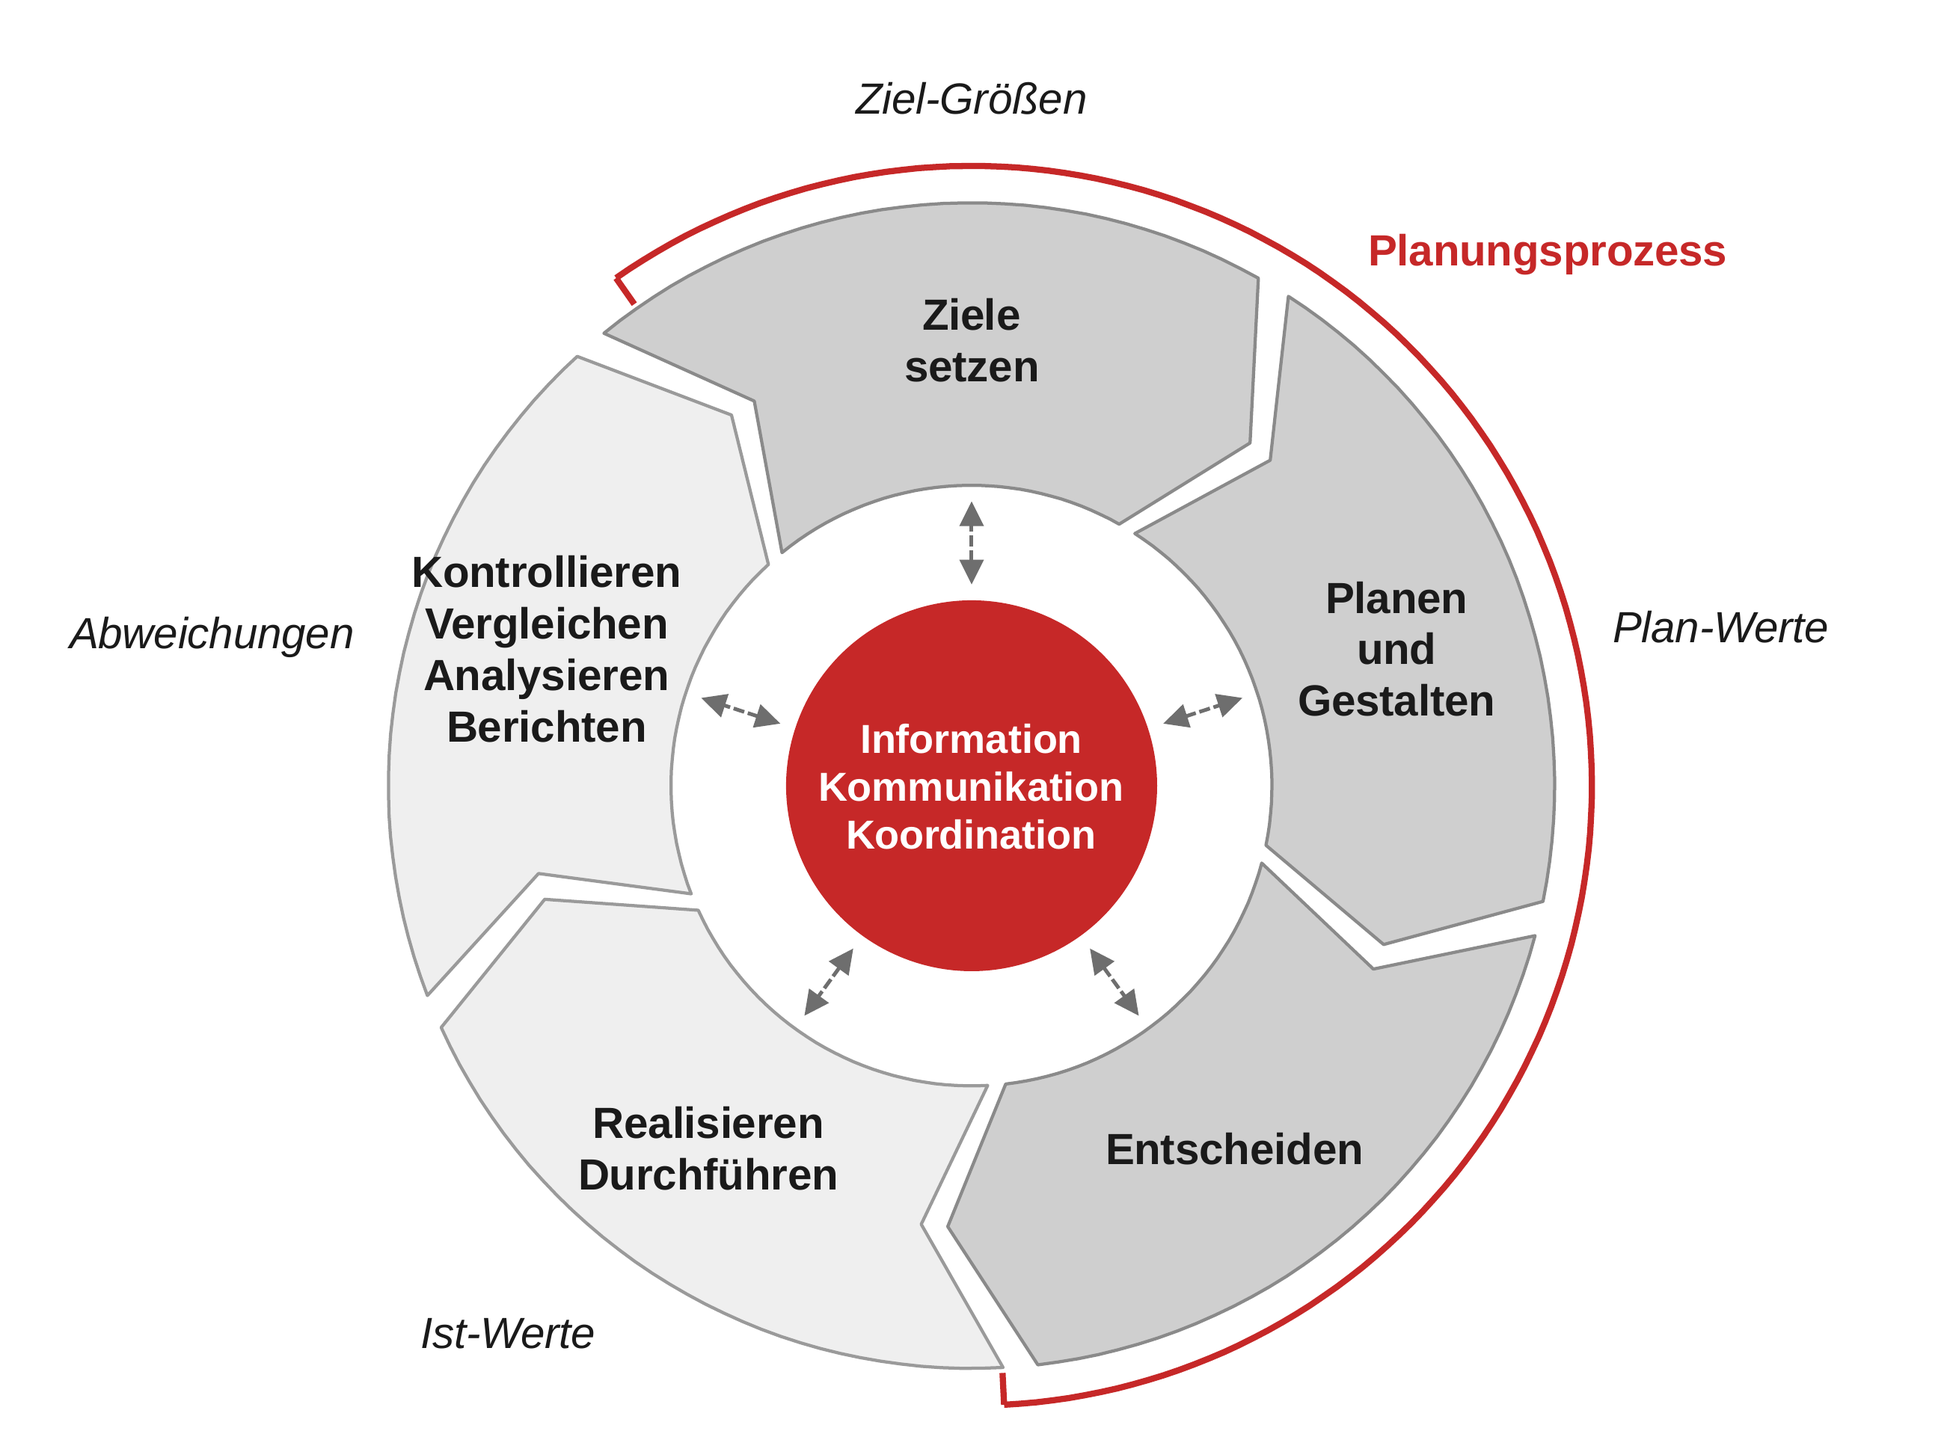
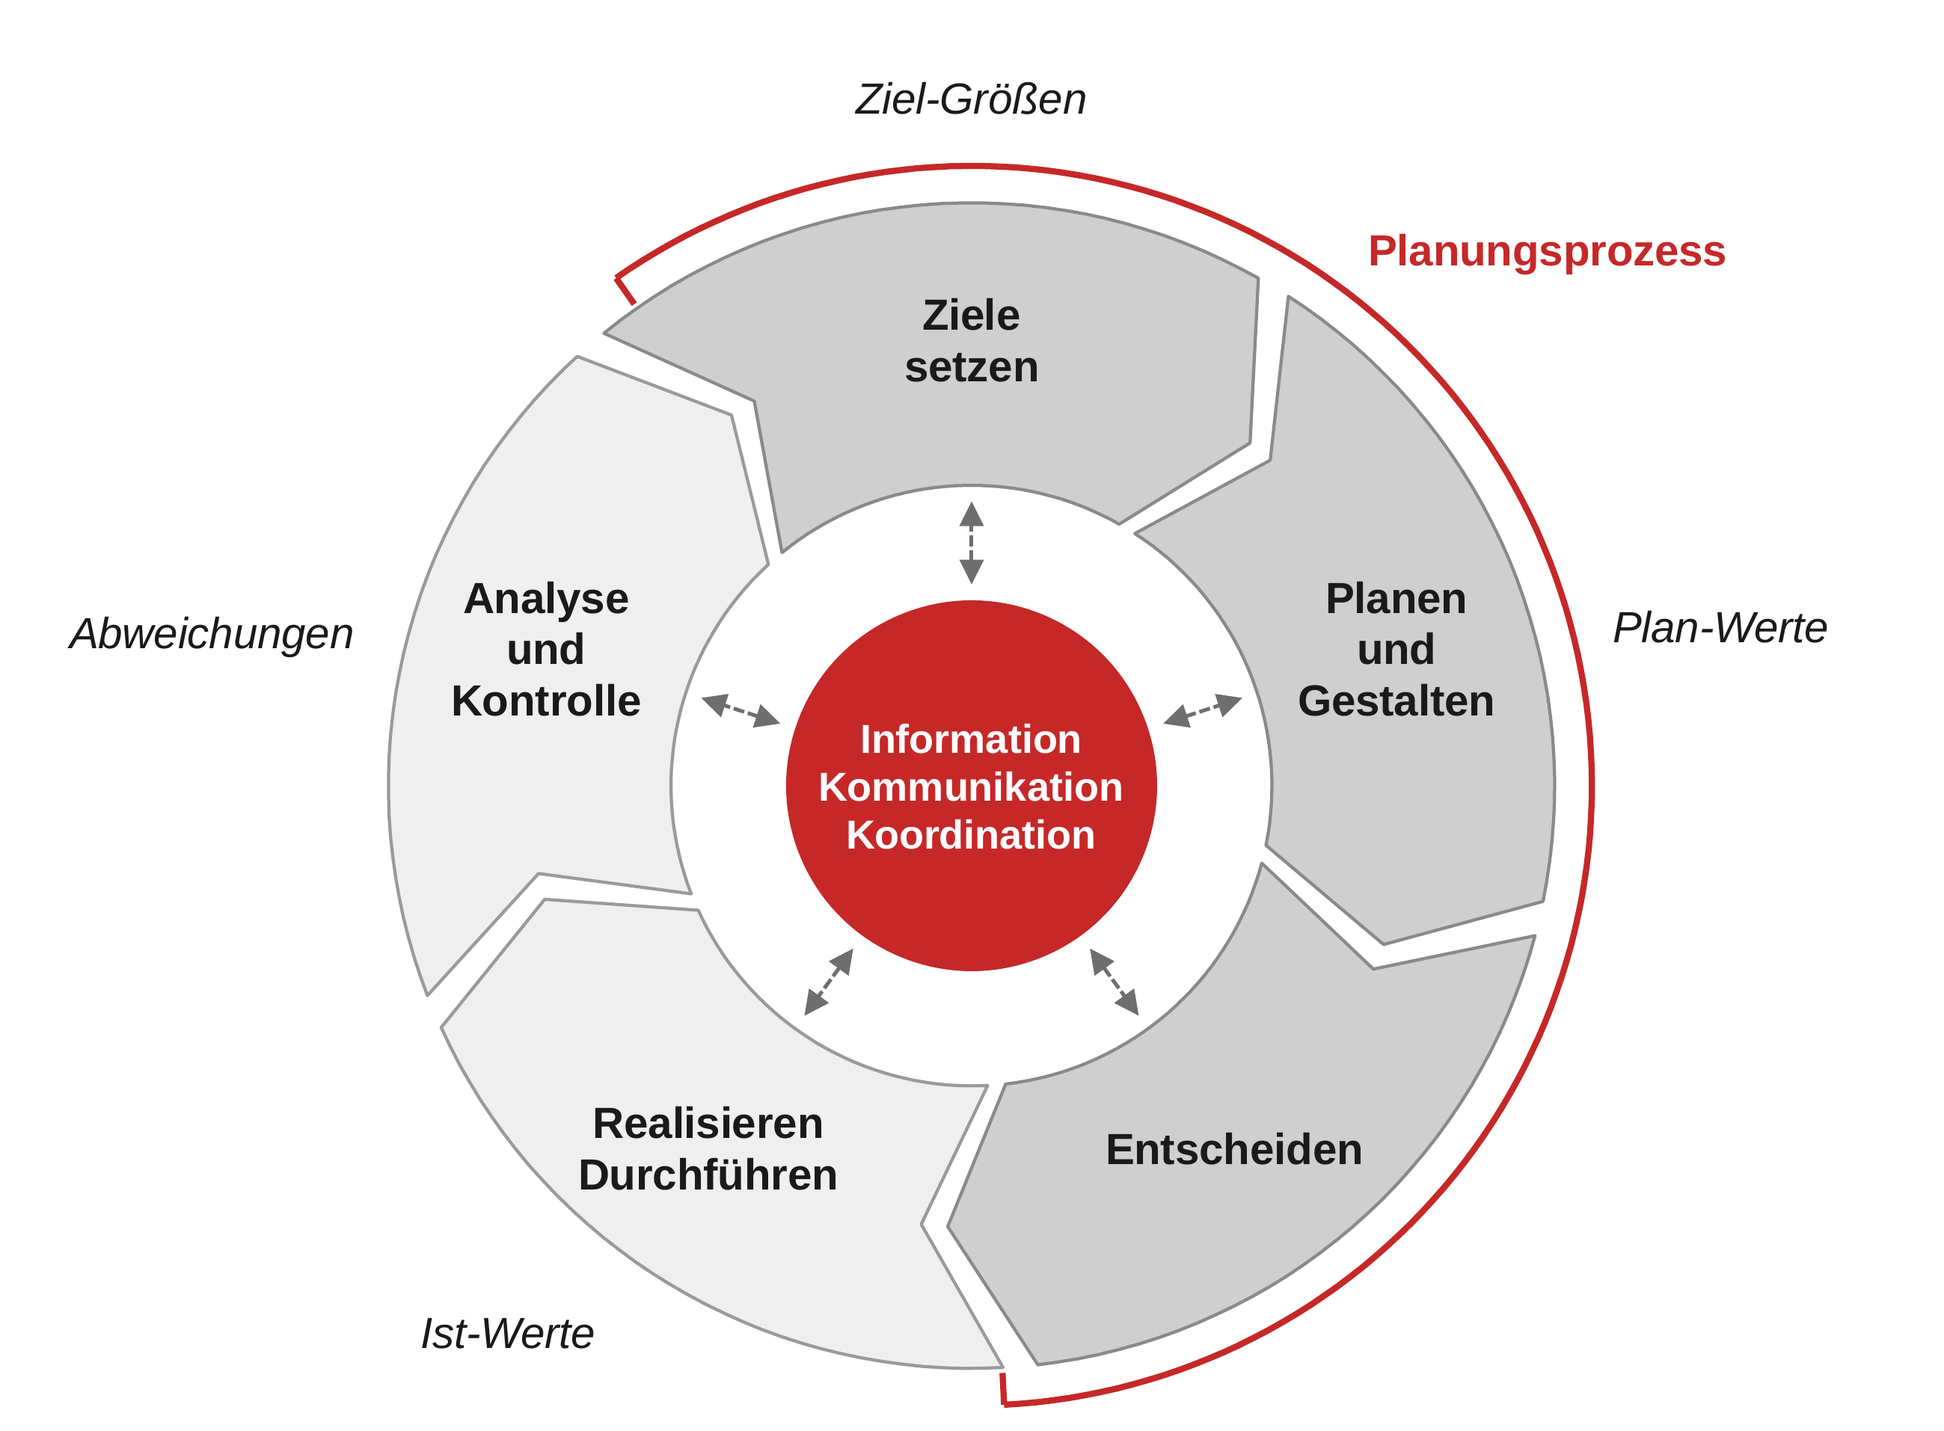
Abb. 2.1: Phase „Analyse und Kontrolle“
Linkes Segment des Management-Regelkreises heißt jetzt „Analyse und
Kontrolle“ statt „Kontrollieren, Vergleichen, Analysieren, Berichten“
(Vorgabe Autor). PNG, PDF, PPTX, Vorschau, Alternativtext und
Inventur aktualisiert.

Claude-Session: https://claude.ai/code/session_015a49Vr6vK6JHdw6trSezHk

Changed region(s): [[0.2182, 0.3699, 0.3428, 0.524]]

diff --git a/index.html b/index.html
@@ -111,7 +111,7 @@ dialog::backdrop{background:rgba(0,0,0,.65)}
 footer{max-width:1240px;margin:0 auto;padding:0 20px 40px;color:var(--muted);font-size:12px}
 @media (max-width:700px){.leiste{position:static}.kapitel button{padding:5px 9px}.kapitel .kp{display:none}select,input[type=search]{flex:1 1 140px}html{scroll-padding-top:10px}}
 @media (max-width:640px){.zahlen{display:grid;grid-template-columns:1fr 1fr}.zahlen button,.zahlen button:first-child{border-left:none;padding:8px 0;border-top:1px solid var(--linie)}.bilder{grid-template-columns:1fr}.meta{margin-left:0}.anzahl{margin-left:0}}
-</style></head><body><div class='kopf'><h1>Abbildungsinventur 6. Auflage</h1><p class='unter'>Planung und Reporting im BI-gestützten Controlling · alle Abbildungen und Tabellen der Abbildungssammlung zur 5. Auflage (ohne Kap. 3.9) · Stand 06.10.2026</p><div class='zahlen' id='zahlen'></div><p class='abst-info' id='abst-info'><span><span class='punkt'></span><span id='abst-stand'>Abstimmung wird geladen …</span> · <a href='https://docs.google.com/spreadsheets/d/1EO9x7mX5hfWnU4760OqhwzuH82uesbD7LPkUpzMcxCg/edit' target='_blank' rel='noopener'>Tabelle öffnen</a></span><button type='button' class='kn' id='abst-login'>Bearbeiten</button></p><details class='info'><summary>Übersicht je Kapitel, Nummerierung und Bedienung</summary><div id='kapiteltabelle'></div><ul><li>Kapitel 4: Tab. 4.1–4.5 nicht in der Sammlung (vermutlich Satztabellen im Manuskript)</li></ul><ul><li>Bild anklicken: große Ansicht. Links das Original der 5. Auflage, rechts die neue Fassung.</li><li>„LaTeX kopieren“ legt den Code der Tabelle in die Zwischenablage – direkt in Overleaf einfügen. Bei fertigen Abbildungen kopiert der Knopf die figure-Umgebung mit Caption und Label (aus der Caption gebildet, nicht aus der Nummer); dafür die Datei aus <code>abbildungen/</code> mit gleichem Pfad nach Overleaf hochladen. Dashboards im Querformat werden um 90° gedreht auf einer Hochformatseite eingebunden (Pfad <code>author/content/abbildungen/…</code>).</li><li>Status und Kommentare unter „Abstimmung“ kommen aus der gemeinsamen Google-Tabelle. Zum Ändern „Bearbeiten“ wählen und mit Name und Passwort anmelden; Kommentare werden mit Datum und Name angehängt.</li><li>„Hinweise aus der Umsetzung“ sind die Anmerkungen beim Neuzeichnen; rote Punkte markieren Stellen, die eine Entscheidung oder fachliche Prüfung brauchen.</li><li>Direktlink auf eine Abbildung: Nummer anklicken, z. B. <code>index.html#abb-3-5</code>.</li></ul></details></div><div class='leiste'><div class='in'><div class='kapitel' role='group' aria-label='Kapitel'><button data-kap='alle' aria-pressed='true'>Alle</button><button data-kap='2' aria-pressed='false'><span class='kp'>Kap. </span>2</button><button data-kap='3' aria-pressed='false'><span class='kp'>Kap. </span>3</button><button data-kap='4' aria-pressed='false'><span class='kp'>Kap. </span>4</button><button data-kap='5' aria-pressed='false'><span class='kp'>Kap. </span>5</button><button data-kap='6' aria-pressed='false'><span class='kp'>Kap. </span>6</button></div><select id='f-status' aria-label='Status'><option value=''>Alle Status</option><option value='offen'>offen</option><option value='arbeit'>in Arbeit</option><option value='pruefung'>zur Prüfung</option><option value='aenderung'>Änderung nötig</option><option value='klaerung'>Klärung nötig</option><option value='freigegeben'>freigegeben</option><option value='entfaellt'>entfällt</option></select><select id='f-art' aria-label='Art'><option value=''>Alle Arten</option><option value='D'>Diagramm (83)</option><option value='V'>Dashboard/Visual (54)</option><option value='S'>Screenshot (73)</option><option value='T'>Tabelle (6)</option><option value='DUP'>Duplikat (1)</option><option value='X'>Hinweis (1)</option></select><input id='f-suche' type='search' placeholder='Suche: Nummer, Titel, Kommentar …' aria-label='Suche'><label class='cb'><input id='f-offen' type='checkbox'> nur offene Punkte</label><span class='anzahl' id='anzahl'></span></div></div><main><section class='kapitel-block' data-kap='2'><h2 class='kap'>Kapitel 2 <span>8 Einträge · 7 umgesetzt</span></h2><div class='raster'><article class='karte' id='abb-2-1' data-kap='2' data-status='pruefung' data-art='D' data-offen='0' data-offen-fix='0' data-suche='abb. 2.1 planung und reporting im management-regelkreis, s. 10 planung und reporting im management-regelkreis bildtitel „management-regelkreis“ entfernt blaue drehpfeile entfernt (der kreislauf ergibt sich aus der form) planungsphasen grau hinterlegt, planungsprozess als rote klammer kern rot „s. 10“ in der notiz ist die seitenzahl der 5. auflage – nicht teil der caption folie 2'><header class='kk'><a class='nr' href='#abb-2-1' title='Link auf diese Abbildung'>Abb. 2.1</a><span class='st st-pruefung' title='Status der Abstimmung'>zur Prüfung</span><span class='meta'>Diagramm · Folie 2</span></header><h3 class='cap'>Planung und Reporting im Management-Regelkreis</h3><p class='capalt'><span>5. Aufl.:</span> Planung und Reporting im Management-Regelkreis, S. 10</p><div class='bilder'><figure><button class='lupe' data-gross='vorschau/original/folie_002.jpg' data-titel='Abb. 2.1 – 5. Auflage'><img src='vorschau/original/klein/folie_002.jpg' loading='lazy' alt='Abb. 2.1, Fassung der 5. Auflage'></button><figcaption>5. Auflage</figcaption></figure><figure class='neu'><button class='lupe' data-gross='abbildungen/kap2/abb_2-1.png' data-titel='Abb. 2.1 – 6. Auflage'><img src='vorschau/neu/abb_2-1.jpg' loading='lazy' alt='Kreisförmiger Management-Regelkreis aus fünf Phasen: Ziele setzen, Planen und Gestalten, Entscheiden, Realisieren/Durchführen sowie Kontrollieren, Vergleichen, Analysieren und Berichten. Die ersten drei Phasen bilden den Planungsprozess. Im Zentrum stehen Information, Kommunikation und Koordination; außen stehen die ausgetauschten Größen Ziel-Größen, Plan-Werte, Ist-Werte und Abweichungen.'></button><figcaption>6. Auflage · 110 × 81 mm</figcaption></figure></div><nav class='dateien'><a class='kn' href='abbildungen/kap2/abb_2-1.png' target='_blank' rel='noopener'>PNG</a><a class='kn' href='abbildungen/kap2/abb_2-1.pdf' target='_blank' rel='noopener'>PDF</a><a class='kn' href='abbildungen/kap2/abb_2-1.pptx' download>PPTX</a><button class='kn kopie' data-ziel='tex-abb-2-1'>LaTeX (figure) kopieren</button></nav><p class='quellen'><span>Quelle:</span> <a href='quellen/kap2/abb_2-1.py' target='_blank' rel='noopener'>abb_2-1.py</a></p><section class='abst' aria-label='Abstimmung'><h4>Abstimmung <span class='abst-zuletzt'></span></h4><ul class='abst-liste'></ul><div class='abst-form' hidden><label>Status <select class='abst-status'><option value='offen'>offen</option><option value='arbeit'>in Arbeit</option><option value='pruefung' selected>zur Prüfung</option><option value='aenderung'>Änderung nötig</option><option value='klaerung'>Klärung nötig</option><option value='freigegeben'>freigegeben</option><option value='entfaellt'>entfällt</option></select></label><textarea class='abst-text' rows='2' placeholder='Kommentar hinzufügen (optional)'></textarea><div class='abst-zeile'><button type='button' class='kn kopie abst-speichern'>Speichern</button><span class='abst-meldung' role='status'></span></div></div></section><div class='kom'><h4>Hinweise aus der Umsetzung</h4><ul><li>Bildtitel „Management-Regelkreis“ entfernt</li><li>blaue Drehpfeile entfernt (der Kreislauf ergibt sich aus der Form)</li><li>Planungsphasen grau hinterlegt, Planungsprozess als rote Klammer</li><li>Kern rot</li></ul></div><div class='kom'><h4>Caption</h4><ul><li>„S. 10“ in der Notiz ist die Seitenzahl der 5. Auflage – nicht Teil der Caption</li></ul></div><details><summary>Alternativtext</summary><p>Kreisförmiger Management-Regelkreis aus fünf Phasen: Ziele setzen, Planen und Gestalten, Entscheiden, Realisieren/Durchführen sowie Kontrollieren, Vergleichen, Analysieren und Berichten. Die ersten drei Phasen bilden den Planungsprozess. Im Zentrum stehen Information, Kommunikation und Koordination; außen stehen die ausgetauschten Größen Ziel-Größen, Plan-Werte, Ist-Werte und Abweichungen.</p></details><details class='code'><summary>LaTeX-Code</summary><pre><code id='tex-abb-2-1'>% Vektor-PDF in Originalgröße (110 mm breit) – nicht skalieren, dann bleibt die Schrift bei 7 pt
+</style></head><body><div class='kopf'><h1>Abbildungsinventur 6. Auflage</h1><p class='unter'>Planung und Reporting im BI-gestützten Controlling · alle Abbildungen und Tabellen der Abbildungssammlung zur 5. Auflage (ohne Kap. 3.9) · Stand 06.10.2026</p><div class='zahlen' id='zahlen'></div><p class='abst-info' id='abst-info'><span><span class='punkt'></span><span id='abst-stand'>Abstimmung wird geladen …</span> · <a href='https://docs.google.com/spreadsheets/d/1EO9x7mX5hfWnU4760OqhwzuH82uesbD7LPkUpzMcxCg/edit' target='_blank' rel='noopener'>Tabelle öffnen</a></span><button type='button' class='kn' id='abst-login'>Bearbeiten</button></p><details class='info'><summary>Übersicht je Kapitel, Nummerierung und Bedienung</summary><div id='kapiteltabelle'></div><ul><li>Kapitel 4: Tab. 4.1–4.5 nicht in der Sammlung (vermutlich Satztabellen im Manuskript)</li></ul><ul><li>Bild anklicken: große Ansicht. Links das Original der 5. Auflage, rechts die neue Fassung.</li><li>„LaTeX kopieren“ legt den Code der Tabelle in die Zwischenablage – direkt in Overleaf einfügen. Bei fertigen Abbildungen kopiert der Knopf die figure-Umgebung mit Caption und Label (aus der Caption gebildet, nicht aus der Nummer); dafür die Datei aus <code>abbildungen/</code> mit gleichem Pfad nach Overleaf hochladen. Dashboards im Querformat werden um 90° gedreht auf einer Hochformatseite eingebunden (Pfad <code>author/content/abbildungen/…</code>).</li><li>Status und Kommentare unter „Abstimmung“ kommen aus der gemeinsamen Google-Tabelle. Zum Ändern „Bearbeiten“ wählen und mit Name und Passwort anmelden; Kommentare werden mit Datum und Name angehängt.</li><li>„Hinweise aus der Umsetzung“ sind die Anmerkungen beim Neuzeichnen; rote Punkte markieren Stellen, die eine Entscheidung oder fachliche Prüfung brauchen.</li><li>Direktlink auf eine Abbildung: Nummer anklicken, z. B. <code>index.html#abb-3-5</code>.</li></ul></details></div><div class='leiste'><div class='in'><div class='kapitel' role='group' aria-label='Kapitel'><button data-kap='alle' aria-pressed='true'>Alle</button><button data-kap='2' aria-pressed='false'><span class='kp'>Kap. </span>2</button><button data-kap='3' aria-pressed='false'><span class='kp'>Kap. </span>3</button><button data-kap='4' aria-pressed='false'><span class='kp'>Kap. </span>4</button><button data-kap='5' aria-pressed='false'><span class='kp'>Kap. </span>5</button><button data-kap='6' aria-pressed='false'><span class='kp'>Kap. </span>6</button></div><select id='f-status' aria-label='Status'><option value=''>Alle Status</option><option value='offen'>offen</option><option value='arbeit'>in Arbeit</option><option value='pruefung'>zur Prüfung</option><option value='aenderung'>Änderung nötig</option><option value='klaerung'>Klärung nötig</option><option value='freigegeben'>freigegeben</option><option value='entfaellt'>entfällt</option></select><select id='f-art' aria-label='Art'><option value=''>Alle Arten</option><option value='D'>Diagramm (83)</option><option value='V'>Dashboard/Visual (54)</option><option value='S'>Screenshot (73)</option><option value='T'>Tabelle (6)</option><option value='DUP'>Duplikat (1)</option><option value='X'>Hinweis (1)</option></select><input id='f-suche' type='search' placeholder='Suche: Nummer, Titel, Kommentar …' aria-label='Suche'><label class='cb'><input id='f-offen' type='checkbox'> nur offene Punkte</label><span class='anzahl' id='anzahl'></span></div></div><main><section class='kapitel-block' data-kap='2'><h2 class='kap'>Kapitel 2 <span>8 Einträge · 7 umgesetzt</span></h2><div class='raster'><article class='karte' id='abb-2-1' data-kap='2' data-status='pruefung' data-art='D' data-offen='0' data-offen-fix='0' data-suche='abb. 2.1 planung und reporting im management-regelkreis, s. 10 planung und reporting im management-regelkreis bildtitel „management-regelkreis“ entfernt blaue drehpfeile entfernt (der kreislauf ergibt sich aus der form) planungsphasen grau hinterlegt, planungsprozess als rote klammer kern rot phase „kontrollieren, vergleichen, analysieren, berichten“ heißt jetzt „analyse und kontrolle“ (vorgabe autor, 06.10.2026) „s. 10“ in der notiz ist die seitenzahl der 5. auflage – nicht teil der caption folie 2'><header class='kk'><a class='nr' href='#abb-2-1' title='Link auf diese Abbildung'>Abb. 2.1</a><span class='st st-pruefung' title='Status der Abstimmung'>zur Prüfung</span><span class='meta'>Diagramm · Folie 2</span></header><h3 class='cap'>Planung und Reporting im Management-Regelkreis</h3><p class='capalt'><span>5. Aufl.:</span> Planung und Reporting im Management-Regelkreis, S. 10</p><div class='bilder'><figure><button class='lupe' data-gross='vorschau/original/folie_002.jpg' data-titel='Abb. 2.1 – 5. Auflage'><img src='vorschau/original/klein/folie_002.jpg' loading='lazy' alt='Abb. 2.1, Fassung der 5. Auflage'></button><figcaption>5. Auflage</figcaption></figure><figure class='neu'><button class='lupe' data-gross='abbildungen/kap2/abb_2-1.png' data-titel='Abb. 2.1 – 6. Auflage'><img src='vorschau/neu/abb_2-1.jpg' loading='lazy' alt='Kreisförmiger Management-Regelkreis aus fünf Phasen: Ziele setzen, Planen und Gestalten, Entscheiden, Realisieren/Durchführen sowie Analyse und Kontrolle. Die ersten drei Phasen bilden den Planungsprozess. Im Zentrum stehen Information, Kommunikation und Koordination; außen stehen die ausgetauschten Größen Ziel-Größen, Plan-Werte, Ist-Werte und Abweichungen.'></button><figcaption>6. Auflage · 110 × 81 mm</figcaption></figure></div><nav class='dateien'><a class='kn' href='abbildungen/kap2/abb_2-1.png' target='_blank' rel='noopener'>PNG</a><a class='kn' href='abbildungen/kap2/abb_2-1.pdf' target='_blank' rel='noopener'>PDF</a><a class='kn' href='abbildungen/kap2/abb_2-1.pptx' download>PPTX</a><button class='kn kopie' data-ziel='tex-abb-2-1'>LaTeX (figure) kopieren</button></nav><p class='quellen'><span>Quelle:</span> <a href='quellen/kap2/abb_2-1.py' target='_blank' rel='noopener'>abb_2-1.py</a></p><section class='abst' aria-label='Abstimmung'><h4>Abstimmung <span class='abst-zuletzt'></span></h4><ul class='abst-liste'></ul><div class='abst-form' hidden><label>Status <select class='abst-status'><option value='offen'>offen</option><option value='arbeit'>in Arbeit</option><option value='pruefung' selected>zur Prüfung</option><option value='aenderung'>Änderung nötig</option><option value='klaerung'>Klärung nötig</option><option value='freigegeben'>freigegeben</option><option value='entfaellt'>entfällt</option></select></label><textarea class='abst-text' rows='2' placeholder='Kommentar hinzufügen (optional)'></textarea><div class='abst-zeile'><button type='button' class='kn kopie abst-speichern'>Speichern</button><span class='abst-meldung' role='status'></span></div></div></section><div class='kom'><h4>Hinweise aus der Umsetzung</h4><ul><li>Bildtitel „Management-Regelkreis“ entfernt</li><li>blaue Drehpfeile entfernt (der Kreislauf ergibt sich aus der Form)</li><li>Planungsphasen grau hinterlegt, Planungsprozess als rote Klammer</li><li>Kern rot</li><li>Phase „Kontrollieren, Vergleichen, Analysieren, Berichten“ heißt jetzt „Analyse und Kontrolle“ (Vorgabe Autor, 06.10.2026)</li></ul></div><div class='kom'><h4>Caption</h4><ul><li>„S. 10“ in der Notiz ist die Seitenzahl der 5. Auflage – nicht Teil der Caption</li></ul></div><details><summary>Alternativtext</summary><p>Kreisförmiger Management-Regelkreis aus fünf Phasen: Ziele setzen, Planen und Gestalten, Entscheiden, Realisieren/Durchführen sowie Analyse und Kontrolle. Die ersten drei Phasen bilden den Planungsprozess. Im Zentrum stehen Information, Kommunikation und Koordination; außen stehen die ausgetauschten Größen Ziel-Größen, Plan-Werte, Ist-Werte und Abweichungen.</p></details><details class='code'><summary>LaTeX-Code</summary><pre><code id='tex-abb-2-1'>% Vektor-PDF in Originalgröße (110 mm breit) – nicht skalieren, dann bleibt die Schrift bei 7 pt
 \begin{figure}[htbp]
   \centering
   \includegraphics{abbildungen/kap2/abb_2-1.pdf}

diff --git a/quellen/kap2/abb_2-1.py b/quellen/kap2/abb_2-1.py
@@ -16,7 +16,7 @@ SEGMENTS = [  # (Mittelwinkel, Text, Planungsprozess?)
     (18,   "Planen\nund\nGestalten", True),
     (-54,  "Entscheiden", True),
     (-126, "Realisieren\nDurchführen", False),
-    (162,  "Kontrollieren\nVergleichen\nAnalysieren\nBerichten", False),
+    (162,  "Analyse\nund\nKontrolle", False),
 ]
 # Informationsobjekte außen: (Winkel, Radius, Text)
 DATA = [
